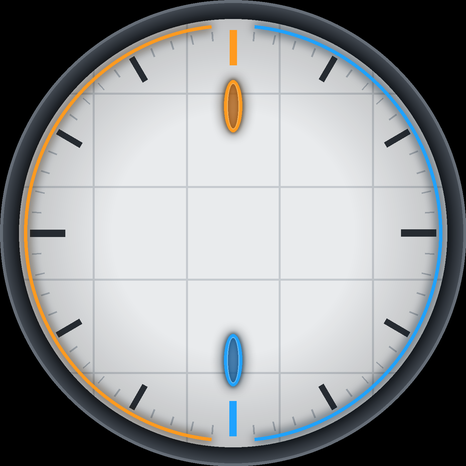
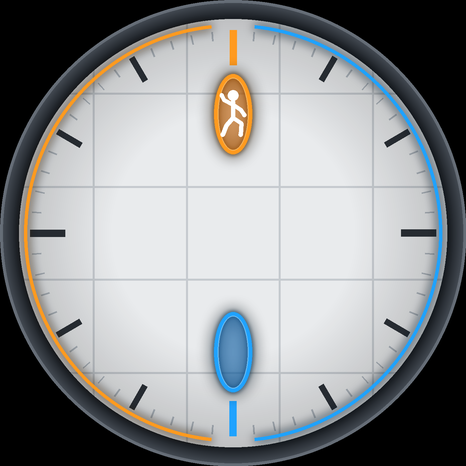
Portal: sentry droid blips, the little man in the portal, plates that load
- Aircraft are little sentry droids: a 26x26 top-down sprite (white shell, gun pods,
  legs, red eye at the nose) drawn at its own size and rotated to heading, with tint
  off so the eye stays red.
- The clock's orange portal at 12 is larger and has the test-subject pictogram
  stepping through it; the blue one at 6 matches.
- The plates were saved as RGB, which the firmware draws as black. They are RGBA now.
- App names are eleven characters or fewer, and the menu portals are thinner and
  further out: seen in the simulator, "Calibration" ran into them.

Checked in the desktop simulator (--themeshot), not on a device. The weather and
ticker screens are not in the simulator's roster, so those are unseen.

Changed region(s): [[0.4206, 0.1202, 0.5708, 0.3605], [0.4206, 0.6309, 0.5708, 0.8712]]

diff --git a/tools/portal_art.py b/tools/portal_art.py
@@ -52,6 +52,12 @@ def disc(r: float, cx: float = CX, cy: float = CY) -> Image.Image:
     return m
 
 
+def ellipse_mask(cx: float, cy: float, rx: float, ry: float) -> Image.Image:
+    m = Image.new('L', (N, N), 0)
+    ImageDraw.Draw(m).ellipse([sc(cx - rx), sc(cy - ry), sc(cx + rx), sc(cy + ry)], fill=255)
+    return m
+
+
 def ring_mask(r_in: float, r_out: float) -> Image.Image:
     return ImageChops.subtract(disc(r_out), disc(r_in))
 
@@ -85,7 +91,8 @@ def finish(img: Image.Image, opaque: bool = True) -> Image.Image:
     if opaque:
         black = Image.new('RGBA', (N, N), (0, 0, 0, 255))
         img = over(black, img, disc(233))
-        return img.resize((W, W), Image.LANCZOS).convert('RGB')
+        # RGBA, not RGB: the firmware's PNG decoders draw anything but 8-bit RGBA as black
+        return img.resize((W, W), Image.LANCZOS).convert('RGBA')
     return img.resize((W, W), Image.LANCZOS)
 
 
@@ -175,6 +182,59 @@ def vignette(img: Image.Image, strength: int = 70) -> Image.Image:
     return over(img, shade)
 
 
+def little_man(cx: float, cy: float, h: float, color=(255, 255, 255), clip=None) -> Image.Image:
+    """The test-subject pictogram, mid-stride: round head, a torso, one arm up and one down, legs apart.
+    Drawn from round-capped strokes. `clip` is an optional mask (the portal's inside) so a limb
+    never pokes out of the ring."""
+    layer = new()
+    d = ImageDraw.Draw(layer)
+    w = sc(h * 0.085)
+
+    def stroke(*pts):
+        d.line([(sc(cx + x * h), sc(cy + y * h)) for x, y in pts], fill=color + (255,), width=w, joint='curve')
+        for x, y in (pts[0], pts[-1]):
+            r = w / 2
+            d.ellipse([sc(cx + x * h) - r, sc(cy + y * h) - r, sc(cx + x * h) + r, sc(cy + y * h) + r],
+                      fill=color + (255,))
+
+    hr = sc(h * 0.105)
+    d.ellipse([sc(cx) - hr, sc(cy - 0.40 * h) - hr, sc(cx) + hr, sc(cy - 0.40 * h) + hr], fill=color + (255,))
+    stroke((0, -0.27), (0, 0.03))                                  # torso
+    stroke((0, -0.22), (-0.17, -0.31), (-0.22, -0.40))             # arm reaching up
+    stroke((0, -0.22), (0.15, -0.12), (0.22, -0.02))               # arm swinging down
+    stroke((0, 0.03), (-0.13, 0.18), (-0.20, 0.36))                # leg back
+    stroke((0, 0.03), (0.16, 0.14), (0.15, 0.36))                  # leg forward
+    return over(new(), layer, clip) if clip is not None else layer
+
+
+def sentry_droid(size: int = 26) -> Image.Image:
+    """A little sentry droid seen from above, nose up: white shell, two gun pods, three legs and a
+    red eye at the front. Rotated to the aircraft's heading by the firmware, so the eye leads."""
+    k = 12                                           # supersampling for a sprite this small
+    big = Image.new('RGBA', (size * k, size * k), (0, 0, 0, 0))
+    d = ImageDraw.Draw(big)
+    c = size * k / 2
+
+    def px(v):
+        return v * k
+
+    leg = (120, 128, 138, 255)
+    for x, y in ((-8.5, 8.0), (8.5, 8.0), (0, 11.5)):                 # three splayed legs
+        d.line([(c, c + px(1.5)), (c + px(x), c + px(y))], fill=leg, width=int(px(1.5)))
+        d.ellipse([c + px(x) - px(1.3), c + px(y) - px(1.3), c + px(x) + px(1.3), c + px(y) + px(1.3)], fill=leg)
+    for sx in (-1, 1):                                                # gun pods, dark barrels forward
+        d.rounded_rectangle([c + px(sx * 7.6) - px(1.9), c - px(6.5), c + px(sx * 7.6) + px(1.9), c + px(2.5)],
+                            radius=int(px(1.6)), fill=(198, 204, 210, 255))
+        d.rectangle([c + px(sx * 7.6) - px(0.9), c - px(9.4), c + px(sx * 7.6) + px(0.9), c - px(6.2)],
+                    fill=(40, 46, 52, 255))
+    d.ellipse([c - px(5.2), c - px(8.6), c + px(5.2), c + px(8.6)], fill=(236, 239, 241, 255))   # shell
+    d.ellipse([c - px(3.3), c - px(5.0), c + px(3.3), c + px(6.2)], fill=(214, 219, 224, 255))   # panel
+    d.ellipse([c - px(2.9), c - px(7.6), c + px(2.9), c - px(1.8)], fill=(28, 32, 37, 255))      # eye socket
+    d.ellipse([c - px(1.9), c - px(6.6), c + px(1.9), c - px(2.8)], fill=RED + (255,))            # red eye
+    d.ellipse([c - px(0.7), c - px(5.8), c + px(0.7), c - px(4.6)], fill=(255, 190, 190, 255))    # glint
+    return big.resize((size, size), Image.LANCZOS)
+
+
 # ---- the plates ------------------------------------------------------------------------
 
 def clock_plate() -> Image.Image:
@@ -191,9 +251,10 @@ def clock_plate() -> Image.Image:
         line_polar(d, 203, 176 if h % 3 else 168, h * 30, col + (255,), 6.0 if h % 3 else 7.5)
     img = over(img, ticks)
     img = over(img, split_ring(209, 3.2))
-    # a portal at 12 (orange) and 6 (blue), small, on the face
-    img = over(img, portal(233, 106, 9, 26, ORANGE, ORANGE_HI, ORANGE_LO, 3.2))
-    img = over(img, portal(233, 360, 9, 26, BLUE, BLUE_HI, BLUE_LO, 3.2))
+    # a portal at 12 (orange) with the little man stepping through it, and one at 6 (blue)
+    img = over(img, portal(233, 114, 19, 40, ORANGE, ORANGE_HI, ORANGE_LO, 4.0))
+    img = over(img, little_man(233, 116, 52, clip=ellipse_mask(233, 114, 19 - 3.5, 40 - 3.5)))
+    img = over(img, portal(233, 352, 19, 40, BLUE, BLUE_HI, BLUE_LO, 4.0))
     return finish(img)
 
 
@@ -276,8 +337,10 @@ def menu_plate() -> Image.Image:
     seams = panels((0, 0, 0), (34, 41, 49), 93, 1.6)
     seams.putalpha(seams.getchannel('R').point(lambda v: 0 if v == 0 else 255))
     img = over(img, seams, disc(233))
-    img = over(img, portal(44, 233, 24, 118, ORANGE, ORANGE_HI, ORANGE_LO, 7))
-    img = over(img, portal(422, 233, 24, 118, BLUE, BLUE_HI, BLUE_LO, 7))
+    # thin and near the edge: the current app's name is drawn large across the middle, and
+    # "Calibration" spans x=61..404, so the portals must stay outside about x=45 / x=421
+    img = over(img, portal(30, 233, 15, 112, ORANGE, ORANGE_HI, ORANGE_LO, 5))
+    img = over(img, portal(436, 233, 15, 112, BLUE, BLUE_HI, BLUE_LO, 5))
     img = over(img, steel_rim(222, 233))
     return finish(img)
 
@@ -373,7 +436,8 @@ def main(argv) -> int:
     hands = clock_hands()
     for name, (img, _pivot) in hands.items():
         img.save(OUT / name, optimize=True)
-    print(f'wrote {len(ASSETS) + len(hands)} images to {OUT}')
+    sentry_droid().save(OUT / 'radar_blip.png', optimize=True)      # pivot (13, 13): its centre
+    print(f'wrote {len(ASSETS) + len(hands) + 1} images to {OUT}')
     if '--preview' in argv:
         sheet = Image.new('RGB', (W * 3, W * 3), (40, 40, 40))
         order = ['clock_plate.png', 'radar_plate.png', 'weather_plate.png', 'menu_plate.png',

diff --git a/tests/test_portal_theme.py b/tests/test_portal_theme.py
@@ -49,6 +49,17 @@ class PortalThemeTest(unittest.TestCase):
             self.assertTrue(0 < px < w and 0 < py < h, f'{hand} pivot ({px}, {py}) is outside {w}x{h}')
             self.assertEqual(px, w // 2, f'{hand} pivot should be on the hand\'s centre line')
 
+    def test_the_sentry_droid_turns_about_its_centre(self):
+        import re
+        text = (THEME / 'theme.yaml').read_text(encoding='utf-8')
+        w, h = png_size(THEME / 'radar_blip.png')
+        px = int(re.search(r'^\s*blipPivotX: (\d+)', text, re.M).group(1))
+        py = int(re.search(r'^\s*blipPivotY: (\d+)', text, re.M).group(1))
+        self.assertEqual((px, py), (w // 2, h // 2), 'the firmware rotates the sprite about this point')
+        self.assertIn('blipTypeImage: true', text)
+        # tint would flatten the droid to one colour and lose the red eye
+        self.assertIn('blipImageTint: false', text)
+
     def test_the_art_script_reproduces_the_committed_images(self):
         # the images are drawn by tools/portal_art.py; a hand-edited PNG would be lost on the next run
         try:
@@ -92,13 +103,18 @@ class PortalLoadTest(unittest.TestCase):
 
     def test_firmware_reads_the_theme(self):
         s = self.state
-        self.assertEqual(s['names']['flight'], 'Sentry Scope')
+        self.assertEqual(s['names']['flight'], 'Sentry Eye')
         self.assertTrue(s['apps']['weather'])
         self.assertFalse(s['apps']['surveillance'])
         self.assertEqual(s['clock']['hands']['order'], [0, 1, 2])
         self.assertEqual(s['radar']['sweepColor'], '0xFF9A1F')
         self.assertEqual(s['ticker']['upColor'], '0x1FA2FF')
         self.assertEqual(s['intel']['title'], 'ANNOUNCEMENT')
+
+    def test_app_names_fit_the_menu(self):
+        # the knob menu draws the current name large; 11 characters is the widest seen to clear the portals
+        for key, name in self.state['names'].items():
+            self.assertLessEqual(len(name), 11, f'names.{key}: {name!r}')
 
     def test_aircraft_are_kept_inside_the_bezel(self):
         zones = self.state['radar']['zones']
